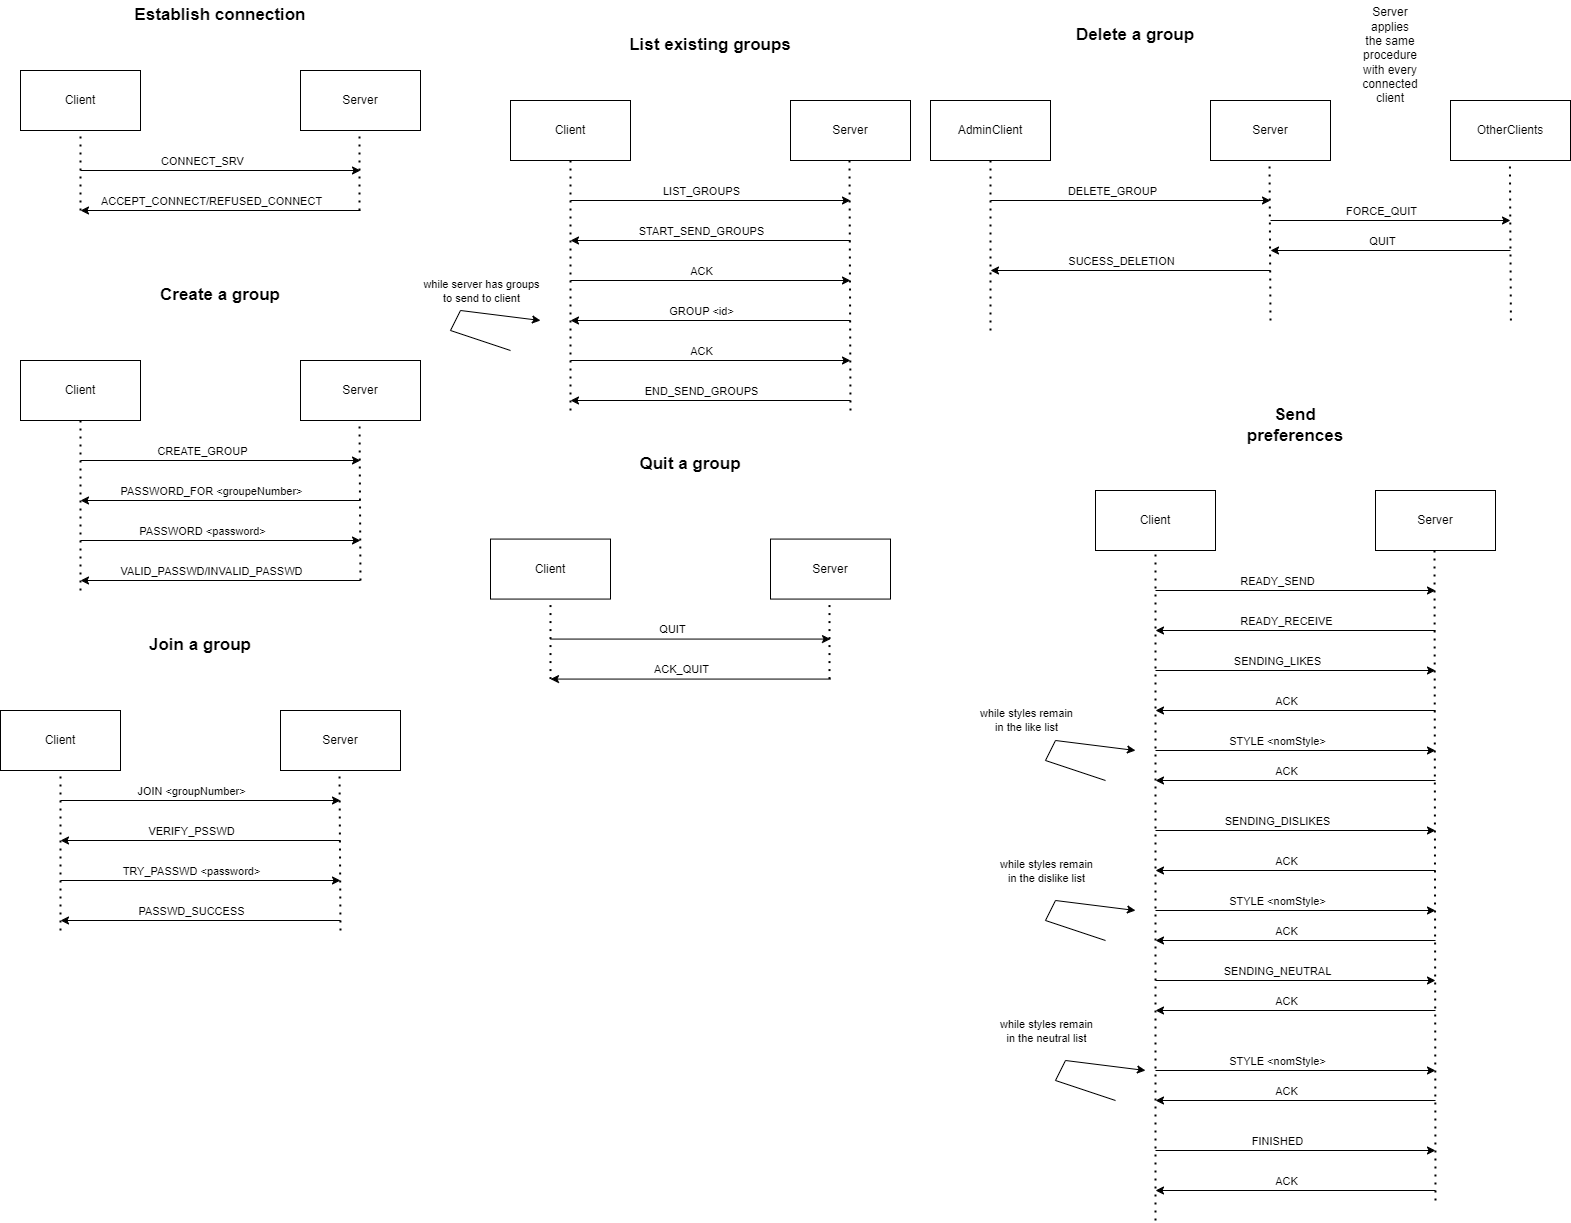
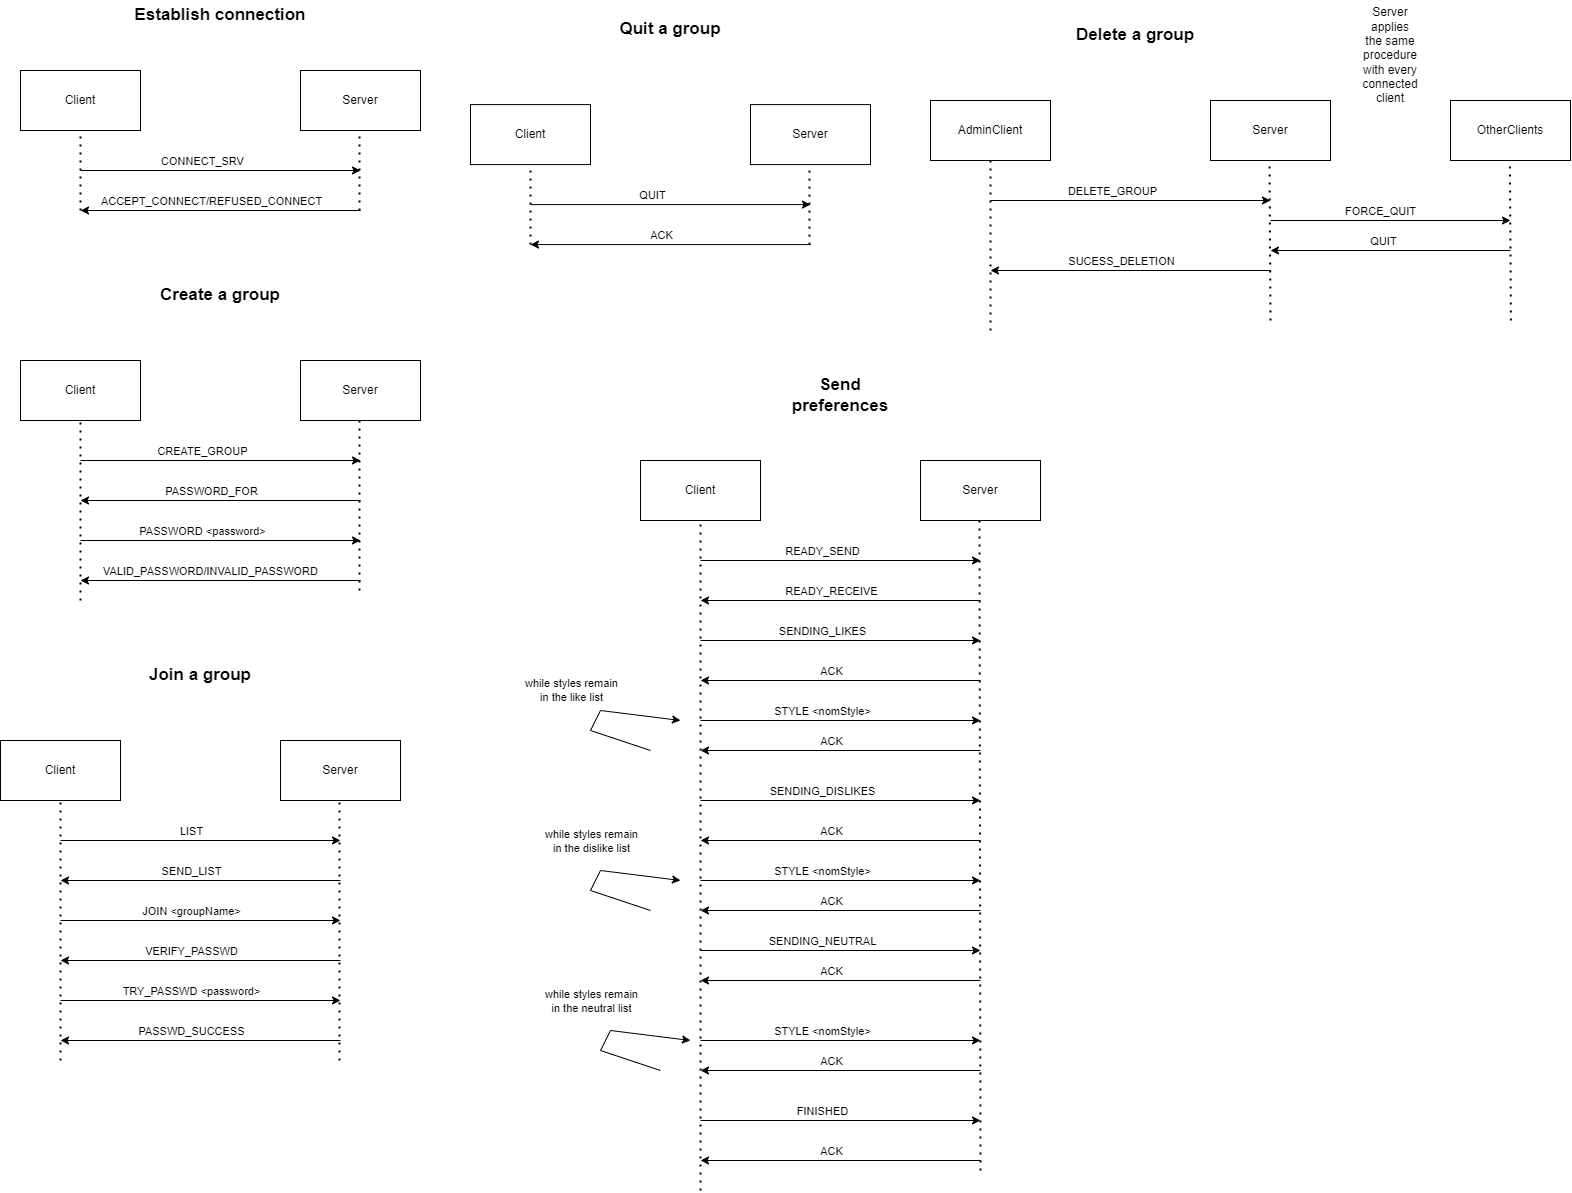
Update RFC

diff --git a/applicationProtocol/consulyProtocol.md b/applicationProtocol/consulyProtocol.md
@@ -2,106 +2,181 @@
 
 **SECTION 3 NOT UP TO DATE**
 
-
-
 ## Section 1 - Overview
 
-Consuly protocol is a custom application protocol used by the application consuly. 
+Consuly protocol is a custom application protocol used by the application consuly. The goals is to allow a server to communicates with all its connected client to exchange information on which user joins which group, and to exchange contents of preference json files with only messages.
 
 ## Section 2 - Transport Protocol
 
-Consuly protocol uses UDP to be able to handle multiple communications at the same time.  **Used port is yet to be defined.**
+Consuly protocol uses multithreaded TCP to be able to handle multiple communications at the same time.  Default port is UTF-8.
 Every message must be encoded in UTF-8 and delimited by a newline character (\n). The messages are treated as text messages.  
 The emitter must initiate the communication with the server. Once connected to a server, a user can join or create a group.  
-When the client is done, it closes communication with the server, and when nobody is connected to the server for a delimited time,  
-it closes itself.
+When the client is done, it closes communication with the server
 
 Unknown messages are ignored.
 
 ## Section 3 - Messages
 
-*Work in progress. Would it better better to split client errors and server errors ?*
-
-ERROR <number> : indicates an error with it's number *number specifications yet to come*
-
 ### Establish connection
 
-CONNECT_SRV : a client indicates it wants to connect to it
+The client wants to establish first contact with the server.
 
-ACCEPT_CONNECT : server indicates the client connection is accepted. The client is now connected to the server.
+#### Connect to the server
 
-REFUSE_CONNECT : server indicates the client connection is refused. The connection process ends here.
+```CONNECT_SRV```
+a client indicates it wants to connect to the server
+
+#### Response
+
+- `ACCEPT_CONNECT` : the server accepts the connection, and indicates the client it's now connected to server
+- `REFUSE_CONNECT` : the server indicates it can not accept client connection
 
 ### Create a group
 
-CREATE_GROUP : connected client indicates it wants to create a group.
+#### Asking to create a group
 
-PASSWORD_FOR <groupeNumber> : in response to CREATE_GROUP, server gives the client the group number, and asks for the password.
+`CREATE_GROUP <groupName>` : a connected client indicates it wants to create a new group, with groupName beeing the
+name the group.
 
-PASSWORD <password> : the client indicates a password for a group. <password> should be some text containing only letters. Password will be reviewed by the server.
+#### Response
 
-VALID_PASSWD : server indicates the client that chosen password is valid. When sending this, the server needs to remember that this client is **admin** for this group number.
+- `CHOOSE_PASSWORD` : server indicates it wants client to choose a password for the group
 
-INVALID_PASSWD : server indicates the client that chosen password is not valid
+#### Set a password for the group
 
-### Delete a group
+`PASSWORD <password> ` : client indicates the chosen password for the group
 
-DELETE_GROUP : an admin indicates server that it want to delete its group.  Sender client now waits for the server to return SUCCESS_DELETION.
+#### Response
 
-Return ERROR 1 if the sender is not an admin
-
-FORCE_QUIT : asks a client to quit the server 
-
-SUCESS_DELETION : server indicates the admin of a group that the group was successfully deleted.
+- `VALID_PASSWORD` : server indicates the password is valid. Client is then considered to have joined the group, and to be it's admin.
+- `INVALID_PASSWORD` : server indicates the password is not valid
 
 ### Join a group
 
-JOIN <groupNumber> : client indicates it wants to join the group number <groupNumber>. Server will answer ERROR 3 if the group does not exist.
+#### Signify the group to join
 
-VERIFY_PSSWD : the server asks the the client who sent the previous JOIN for the group password.
+`JOIN <groupName>` : client indicates it wants to join the group with name <groupName>
 
-TRY_PASSWD <password> : client indicates the server that it thinks the password is <password>.
+#### Response
 
-### Quit a group
+- `VERIFY_PASSWD` : server asks the client to provide the group password
+- `INVALID_GROUP` : server indicates the group doesn't exist
 
-QUIT : the client indicates the server it wants to quit the group its in. 
+#### Asking to create a group
 
-ACK_QUIT : the server indicates the server that it understood that the client quitted its group
+`TRY_PASSWD <password>` : user tries <password> as the password to join the group
 
-### Send preferences
+#### Response
 
-READY_SEND : the client indicates the server that it's ready to send it's preference list. 
+- `PASSWD_SUCCESS` : server indicates that password was correct, and that it's now in the group
+- `RETRY_PASSWD` : server indicates that password was not correct, but that client can try again
+- `NO_MORE_TRIES` : server indicates that password was not correct, and that client can not try again
+- `ERROR_8` : unknown error happened during password verification
 
-READY_RECEIVE : the server indicates the client that it's ready to receive the list.
+### List existing groups
 
-SENDING_LIKES : the client indicates the server that it will now send what is in the like section of it's user file
+A user may want to know the already existing group, to make his choice on which to join.
 
-SENDING_DISLIKES : the client indicates the server that it will now send what is in the like section of it's user file
+#### Asking for existing groups
 
-SENDING_NEUTRAL : the client indicates the server that it will now send what is in the like section of it's user file
+`LIST_GROUPS` : client indicates the server that it wants to receive the list of existing groups
 
-STYLE <name> : client sends a style from it's user file, <name> being the name of the style.
+#### Response
 
-ACK : server indicates client that it correctly received the client's message
+- `NO_GROUP` : server indicates there is currently no group created
+- `AVAILABLE_GROUP <groupName>` : server indicates that group "groupName" is available. Server sends this message as long as
+  it has group names to send. Server ends the sending of group names with `END_OF_LIST`
 
-FINISHED : client indicates the server that it finished to send it's user list
+### Once in a group
 
+Once in a group, user can perform a few actions before the final playlist is made
 
+#### Quit a group
 
-### Listing existing groups
+`QUIT` : client indicates server it's quitting it's group. Only normal user can do that, no admin.
 
-LIST_GROUPS : client indicates it wants to sever to list the existing groups. Server can answer by START_SEND or NO_GROUPS
+#### Response
 
-GROUPS : server indicates their is no group to send
+- `ACK` : server indicates it acknowledged that client left his group
+- `ERROR_9` : server sends this error to indicate that user is not in a group
 
-START_SEND : server indicates it will now begin to send the existing groups. Client answer with ACK to inidcate it's ready to receive.
+#### Delete a group
 
-GROUP <id> : server indicates that group with id <id> it available. Client answers with ACK to indicate it acknoledged the information.
+Once in group, an admin may want to delete his group. Normal user can not do that.
 
-END_SEND_GROUPS : server indicates there is no more groups to send.
+- `DELETE_GROUP` : client indicates that it wants to delete it's group
 
+#### Response
 
+- `SUCCESS_DELETION` : server indicates that deletion succeeded
+- `FAILURE_DELETION` : server indicates that deletion failed
+- `ERROR_9` : server sends this error to indicate that user is not in a group
 
+#### Signify readyness
 
+Since this a bit particular, we will add a few precision.
+
+Consuly works with the logic that for (almost) each message client sends, server sends once answer. Each client has only
+on communication with the server, and can not listen for server message AND user input. That's how we can with this command.
+A user being "ready" indicates that it's ready to receive an order from the server. This order can either be to quit the server
+(because admin wanted to delete) or to send the preference list (in the background).
+
+`READY` : client indicates it's ready to received order
+
+#### Response
+
+- `FORCE_QUIT` : server indicates that it wants client to leave
+- `SEND_PREF_LIST` : server indicates that it wants the client to send its preference list
+- `RELEASE_READY` : server indicates client it releases the hold it had on it
+
+#### Make the final playlist
+
+Only admin can do that
+
+`MAKE` : client indicates the server that it wants to make the final playlist
+
+#### Response
+
+- `SEND_PREF_LIST` : server indicates that it wants the client to participate and to send its preference list
+
+#### Signify we start to send the list
+
+`READY_SEND` : client indicates the server it's ready to send it's preference list
+
+#### Response
+
+- `READY_RECEIVE` : server indicates it's ready to receive the informations
+- `ERROR` : an error occurred. Client should abord the process
+
+#### Specifying which sublist is sent now
+
+Client indicates which sublist styles will be sent now
+
+`SENDING_<SUBLISTNAME>` : client indicates the server it's going to send the styles from list <SUBLISTNAME>. <SUBLISTNAME>
+is either "LIKES", "DISLIKES", or "NEUTRAL"
+
+#### Response
+
+- `ACK` : server indicates it acknowledged the information
+- `ERROR` : an error occurred. Client should abord the process
+
+#### Sending a style
+
+`STYLE <nomStyle>` : client sends on the style <nomStyle>
+
+#### Response
+
+- `ACK` : server indicates it registered the style in the previously specified sublist
+- `ERROR_89` : server indicates that no sublist was specified
+
+#### End process of sending list
+
+`FINISHED` : client indicates it's done with its user preference list
+
+#### Response
+
+- `ACK` : server indicates it acknowledged
 
 ## Section 4 - Examples
+
+![Examples](consulyProtocol.png)
